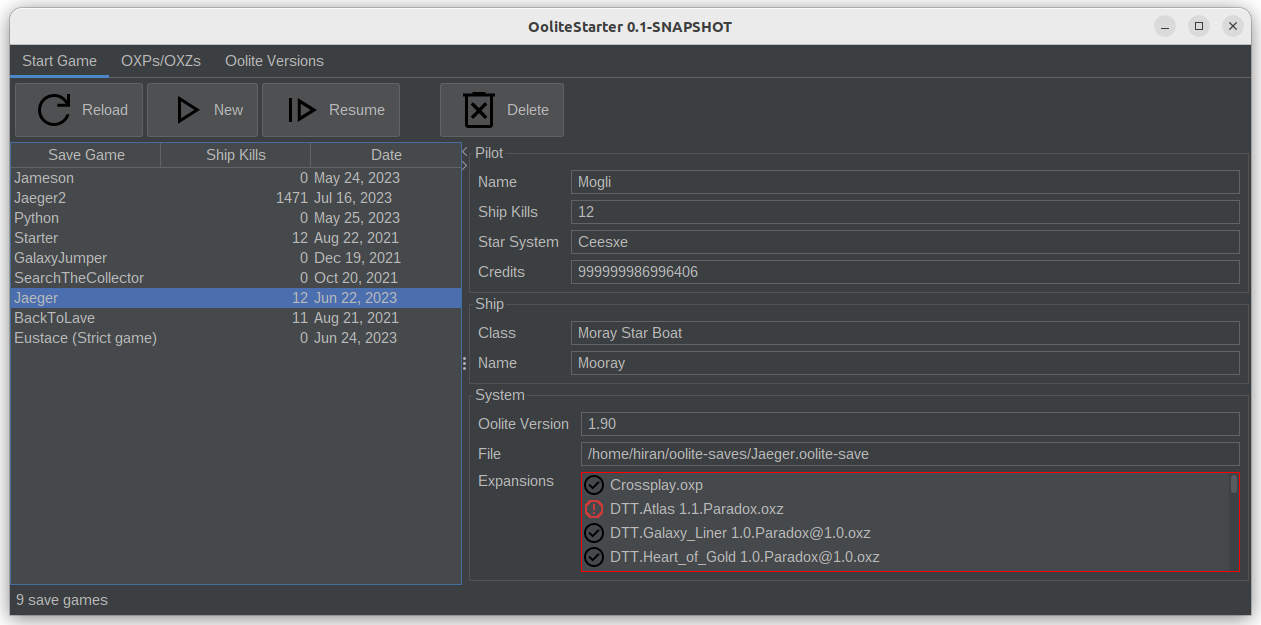
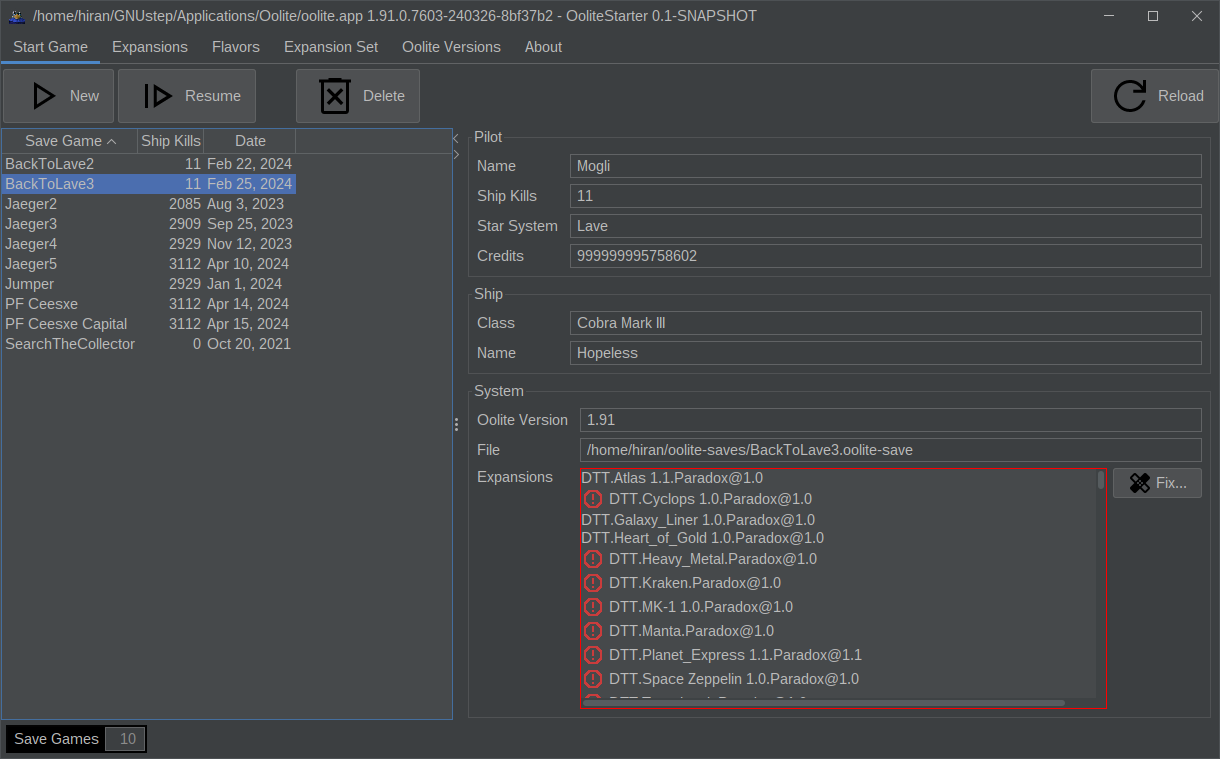
Updated images

Changed region(s): [[0.0, 0.0, 1.0, 1.0]]

diff --git a/readme.md b/readme.md
@@ -221,11 +221,15 @@ Not available in the current version.
 
 ### Flavors
 
+![](src/main/resources-ext/images/screenshots/Flavors.png)
+
 Flavors are predefined sets of expansions. You can install a flavor simply by
 doubleclicking it on the list. OoliteStarter will automatically compute which
 expansions need to be removed or installed and show a list for your approval.
 
 ### Expansion Set
+
+![](src/main/resources-ext/images/screenshots/ExpansionSet.png)
 
 You can save your set of currently installed expansions into a file.
 Keep it somewhere, or share it with others. When loading such a file, 
